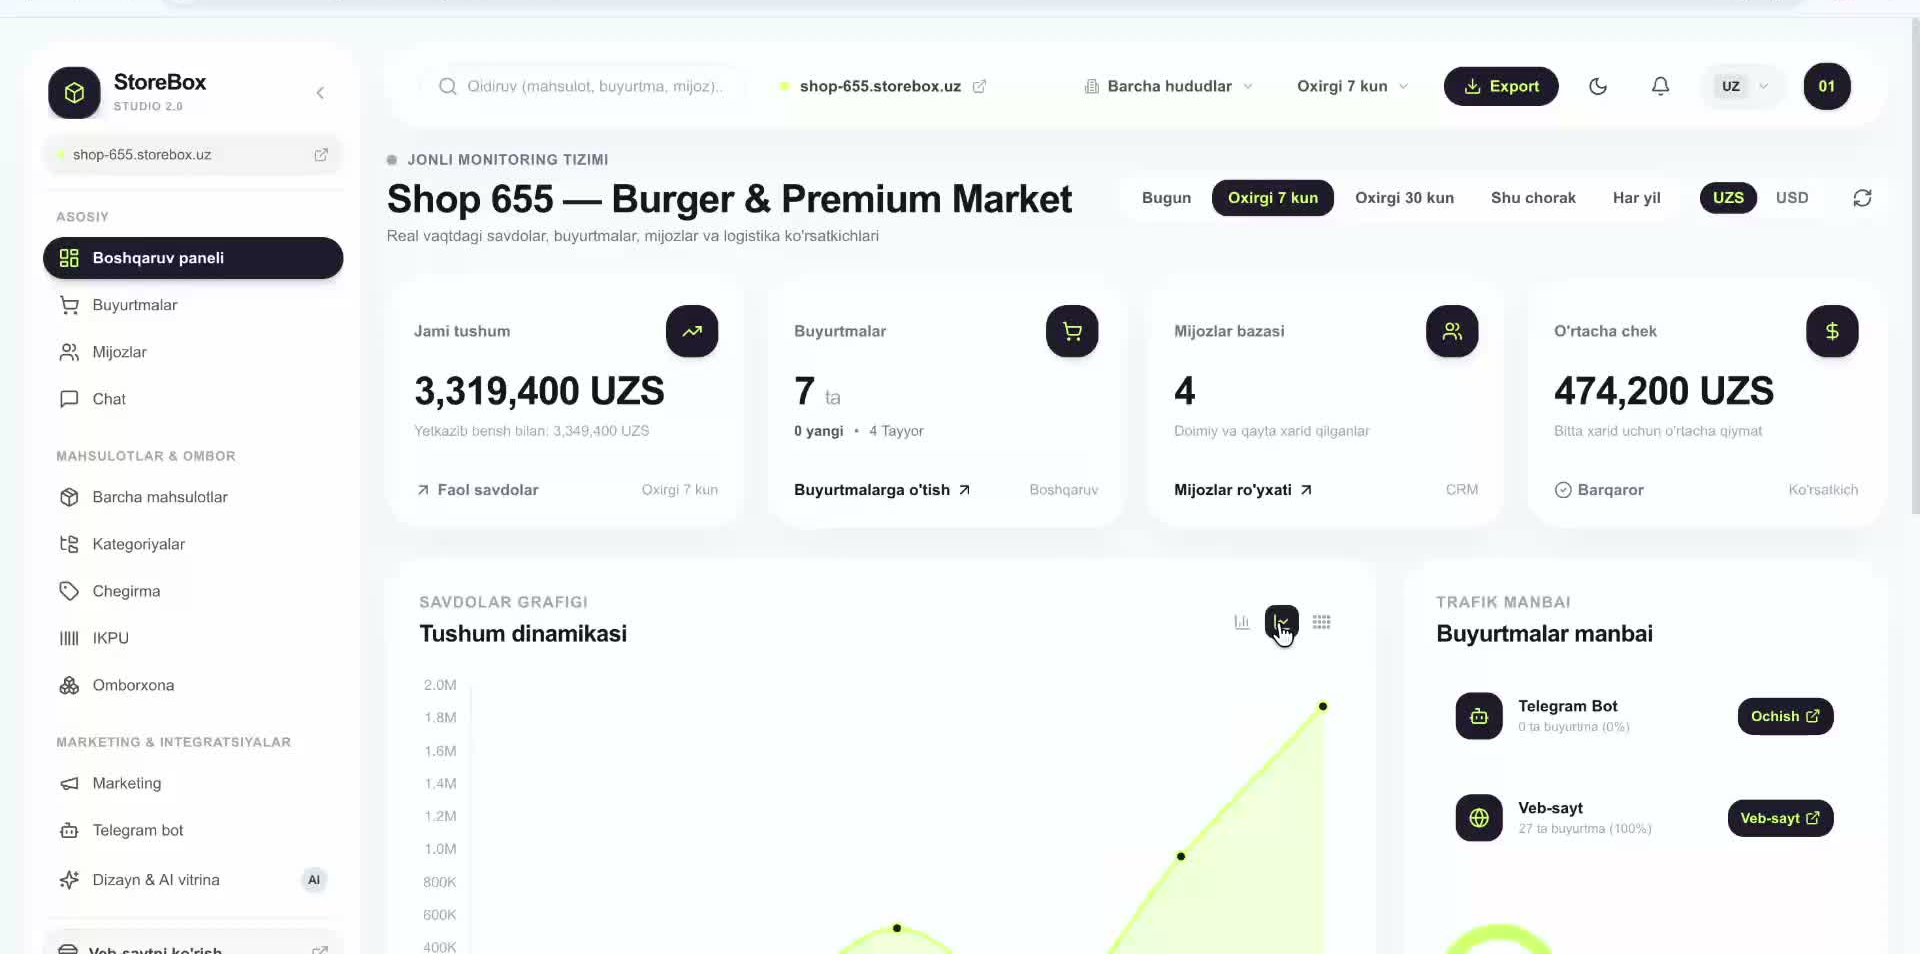
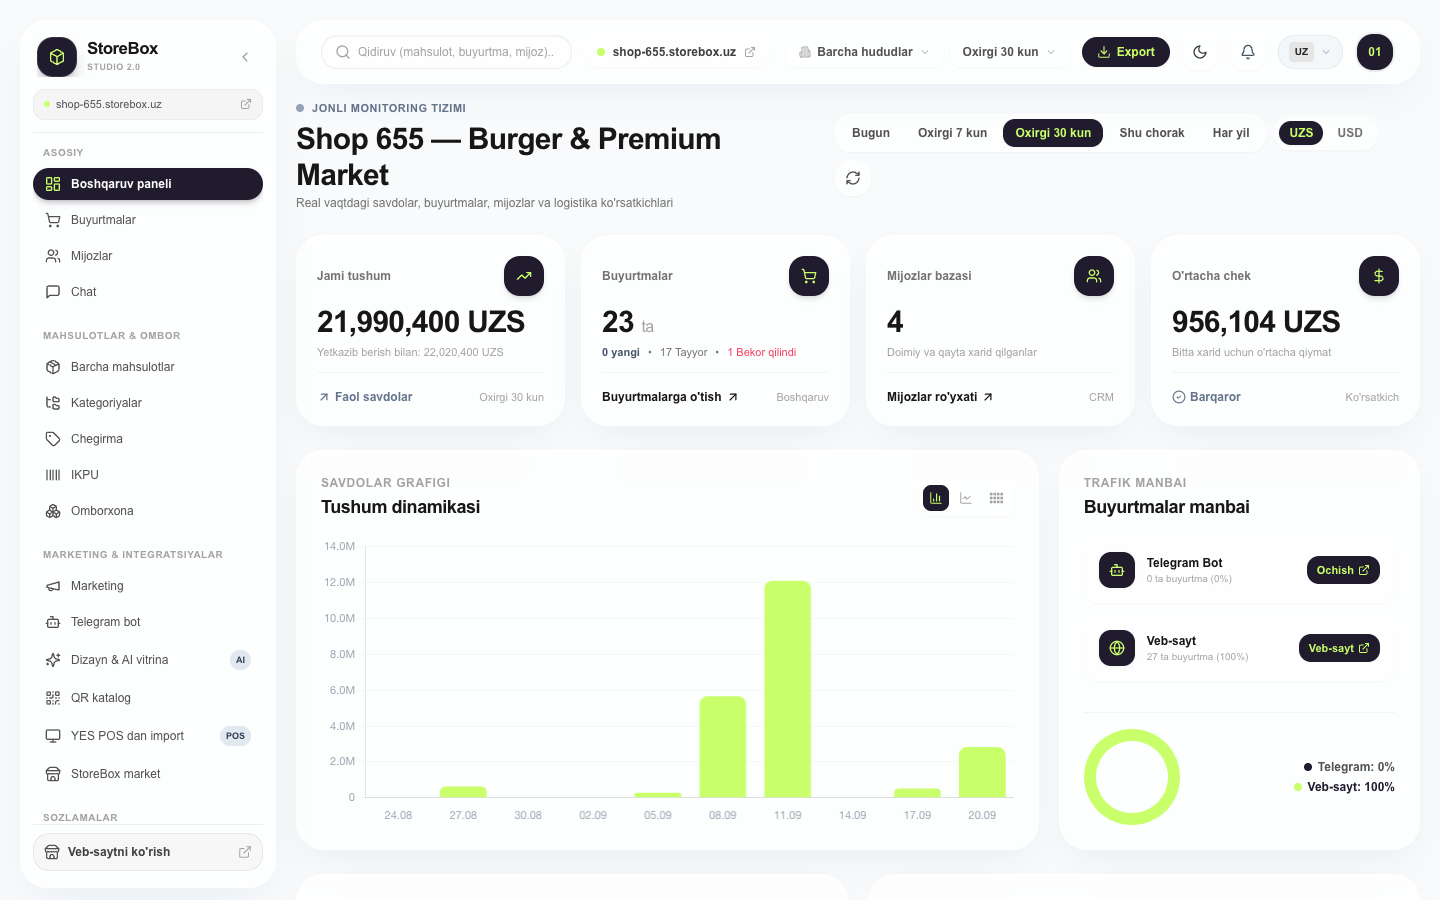
fix(landing): unify all platform screenshots to identical 1440x900 resolution, single store identity, and locked 16:10 aspect ratio

diff --git a/templates/core/landing.html b/templates/core/landing.html
@@ -3185,7 +3185,7 @@ h1 span {
 .platform-screen-viewport {
     position: relative;
     width: 100%;
-    min-height: 320px;
+    aspect-ratio: 16 / 10;
     background: #f8fafc;
     overflow: hidden;
 }
@@ -3196,16 +3196,16 @@ h1 span {
 
 .platform-image-wrapper {
     width: 100%;
-    height: auto;
+    height: 100%;
     display: block;
 }
 
 #platformMainImg {
     width: 100%;
-    height: auto;
+    height: 100%;
     display: block;
-    object-fit: contain;
-    transition: opacity 0.24s ease, transform 0.28s ease;
+    object-fit: cover;
+    transition: opacity 0.22s ease, transform 0.25s ease;
 }
 
 .platform-floating-infocard {
@@ -3456,19 +3456,20 @@ h1 span {
         margin-inline: auto;
     }
     .platform-screen-viewport {
+        width: 100%;
+        aspect-ratio: 16 / 10;
         height: auto;
-        min-height: 480px;
     }
     .platform-image-wrapper {
         width: 100%;
-        height: auto;
+        height: 100%;
         display: block;
     }
     #platformMainImg {
         width: 100%;
-        height: auto;
+        height: 100%;
         display: block;
-        object-fit: contain;
+        object-fit: cover;
     }
 }
 
@@ -3486,17 +3487,20 @@ h1 span {
         padding-inline: 16px;
     }
     .platform-screen-viewport {
-        min-height: 380px;
+        width: 100%;
+        aspect-ratio: 16 / 10;
         height: auto;
     }
     .platform-image-wrapper {
         width: 100%;
-        height: auto;
+        height: 100%;
+        display: block;
     }
     #platformMainImg {
         width: 100%;
-        height: auto;
-        object-fit: contain;
+        height: 100%;
+        display: block;
+        object-fit: cover;
     }
 }
 
@@ -6919,8 +6923,8 @@ h1 span {
             img: "/static/images/landing/platform/dashboard.png",
             badgeUz: "Savdo statistikasi",
             badgeRu: "Статистика продаж",
-            metricUz: "3 319 400 UZS",
-            metricRu: "3 319 400 UZS",
+            metricUz: "21 990 400 UZS",
+            metricRu: "21 990 400 UZS",
             titleUz: "Boshqaruv paneli",
             titleRu: "Панель управления",
             descUz: "Kunlik savdo, buyurtmalar soni va o‘rtacha chek dinamikasini jonli kuzating.",
